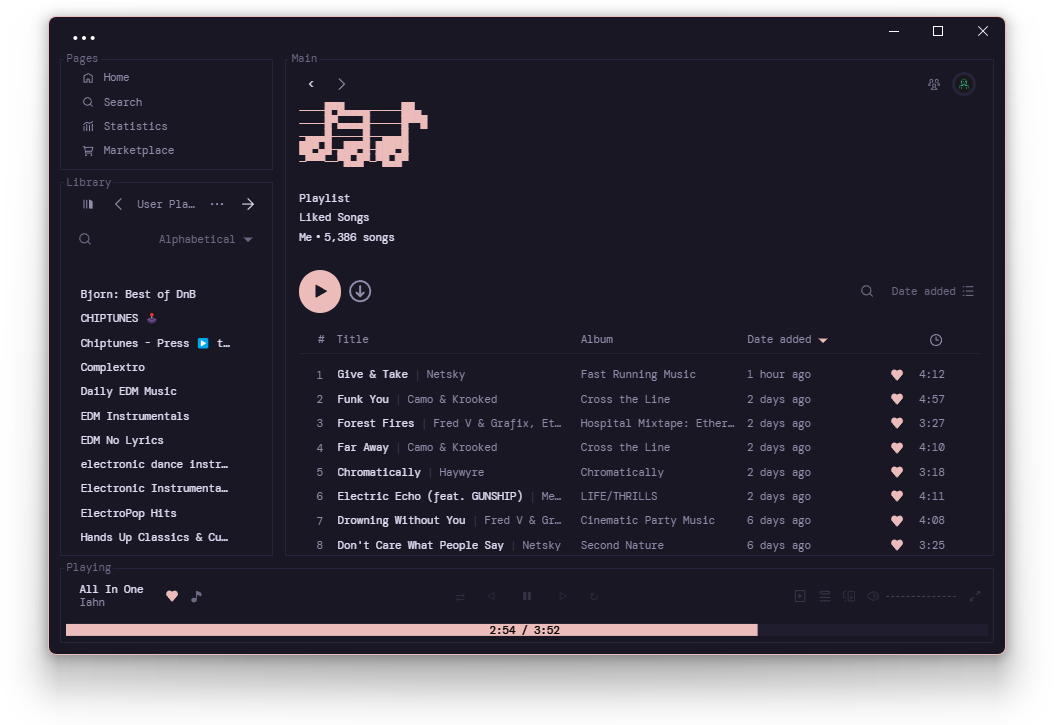
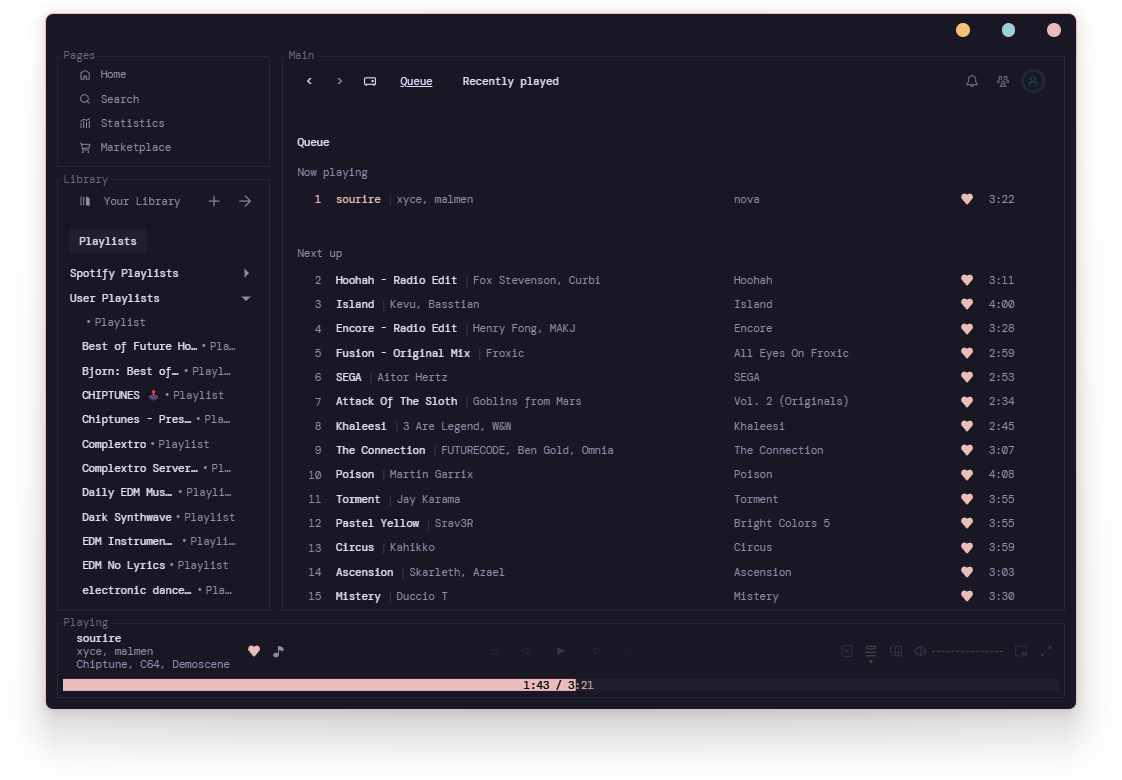
update spotify

diff --git a/spotify/Extensions/customcontrols-rosepine.js b/spotify/Extensions/customcontrols-rosepine.js
@@ -1,0 +1,146 @@
+// NAME: Custom Controls
+// AUTHORS: darkthemer, OhItsTom
+// DESCRIPTION: Replaces the original buttons with custom minimum, maximum, and close buttons from the titlebar.
+
+(async function customControls() {
+    if (!Spicetify.CosmosAsync) {
+        setTimeout(customControls, 10);
+        return;
+    }
+
+    await Spicetify.CosmosAsync.post("sp://messages/v1/container/control", {
+        type: "update_titlebar",
+        height: "1px",
+    });
+
+    const titlebar = document.createElement("div");
+    titlebar.id = "customControls";
+    titlebar.innerHTML = `
+    <div class="ctrls">
+        <div class="ctrl min"><div class="icon"></div></div>
+        <div class="ctrl max"><div class="icon"></div></div>
+        <div class="ctrl close"><div class="icon"></div></div>
+    </div>
+    `;
+    document.getElementById("main").appendChild(titlebar);
+
+    const style = document.createElement("style");
+    style.id = "customControls_style";
+    style.innerHTML = `
+    :root {
+        --control-button-width: 60px;
+        --control-button-height: 45px;
+    }
+    .spotify__container--is-desktop:not(.fullscreen).spotify__os--is-windows .body-drag-top {
+        right: calc(var(--control-button-width) * 3);
+    }
+    .ctrls {
+        display: flex;
+        flex-direction: row;
+        position: absolute;
+        top: 0;
+        right: 0;
+        width: auto;
+        height: auto;
+        z-index: 1;
+    }
+    .ctrl {
+        display: flex;
+        justify-content: center;
+        align-items: center;
+        width: var(--control-button-width);
+        height: var(--control-button-height);
+        background-color: transparent;
+    }
+    .icon {
+        display: flex;
+        justify-content: center;
+        align-items: center;
+        border-radius: 100%;
+        background: var(--caption-color, currentColor);
+        height: 18px;
+        width: 18px;
+    }
+    .min {
+        --caption-color: rgb(246, 193, 119);
+        --caption-color-hover: rgba(246, 193, 119, 0.3);
+    }
+    .max {
+        --caption-color: rgb(156, 207, 216);
+        --caption-color-hover: rgb(156, 207, 216, 0.3);
+    }
+    .close {
+        --caption-color: rgb(235, 188, 186);
+        --caption-color-hover: rgba(235, 188, 186, 0.3);
+    }
+    .ctrl:hover .icon {
+        background: var(--caption-color-hover, currentColor) !important;
+        outline: 3px solid var(--caption-color, currentColor);
+        outline-offset: -2px;
+    }
+    .icon::before {
+        font-family: "Segoe Fluent Icons" !important;
+        font-weight: bold;
+        scale: 0.6;
+        -webkit-text-stroke: 2px;
+        color: var(--caption-color, currentColor);
+    }
+    .min:hover .icon::before {
+        content: "\\f7af";
+        position: absolute;
+        rotate: -30deg;
+    }
+    .max:hover .icon::before {
+        content: "\\ea3a";
+        position: absolute;
+    }
+    .close:hover .icon::before {
+        content: "\\e711";
+        position: absolute;
+    }
+    `;
+    document.head.appendChild(style);
+
+    const min = titlebar.querySelector(".min");
+    min.onclick = function () {
+        alert(
+            "[customControls extension]\nMinimizing the window is not possible due to limitations.\n\nPress Win+Down to minimize."
+        );
+    };
+
+    const max = titlebar.querySelector(".max");
+    max.onclick = function () {
+        // if (!document.fullscreenElement) {
+        //     document.documentElement.requestFullscreen();
+        // } else if (document.exitFullscreen) {
+        //     document.exitFullscreen();
+        // }
+
+        if (
+            window.outerHeight < screen.availHeight ||
+            window.outerWidth < screen.availWidth
+        ) {
+            localStorage.setItem("prevWinW", window.outerWidth);
+            localStorage.setItem("prevWinH", window.outerHeight);
+            localStorage.setItem("prevWinX", window.screenX);
+            localStorage.setItem("prevWinY", window.screenY);
+            window.moveTo(0, 0);
+            window.resizeTo(screen.availWidth, screen.availHeight);
+        } else if (
+            window.outerHeight == screen.availHeight ||
+            window.outerWidth == screen.availWidth
+        ) {
+            var prevWidth = localStorage.getItem("prevWinW");
+            var prevHeight = localStorage.getItem("prevWinH");
+            var prevX = localStorage.getItem("prevWinX");
+            var prevY = localStorage.getItem("prevWinY");
+            window.resizeTo(prevWidth, prevHeight);
+            window.moveTo(prevX, prevY);
+        }
+    };
+
+    const close = titlebar.querySelector(".close");
+    close.onclick = function () {
+        window.close();
+    };
+})();
